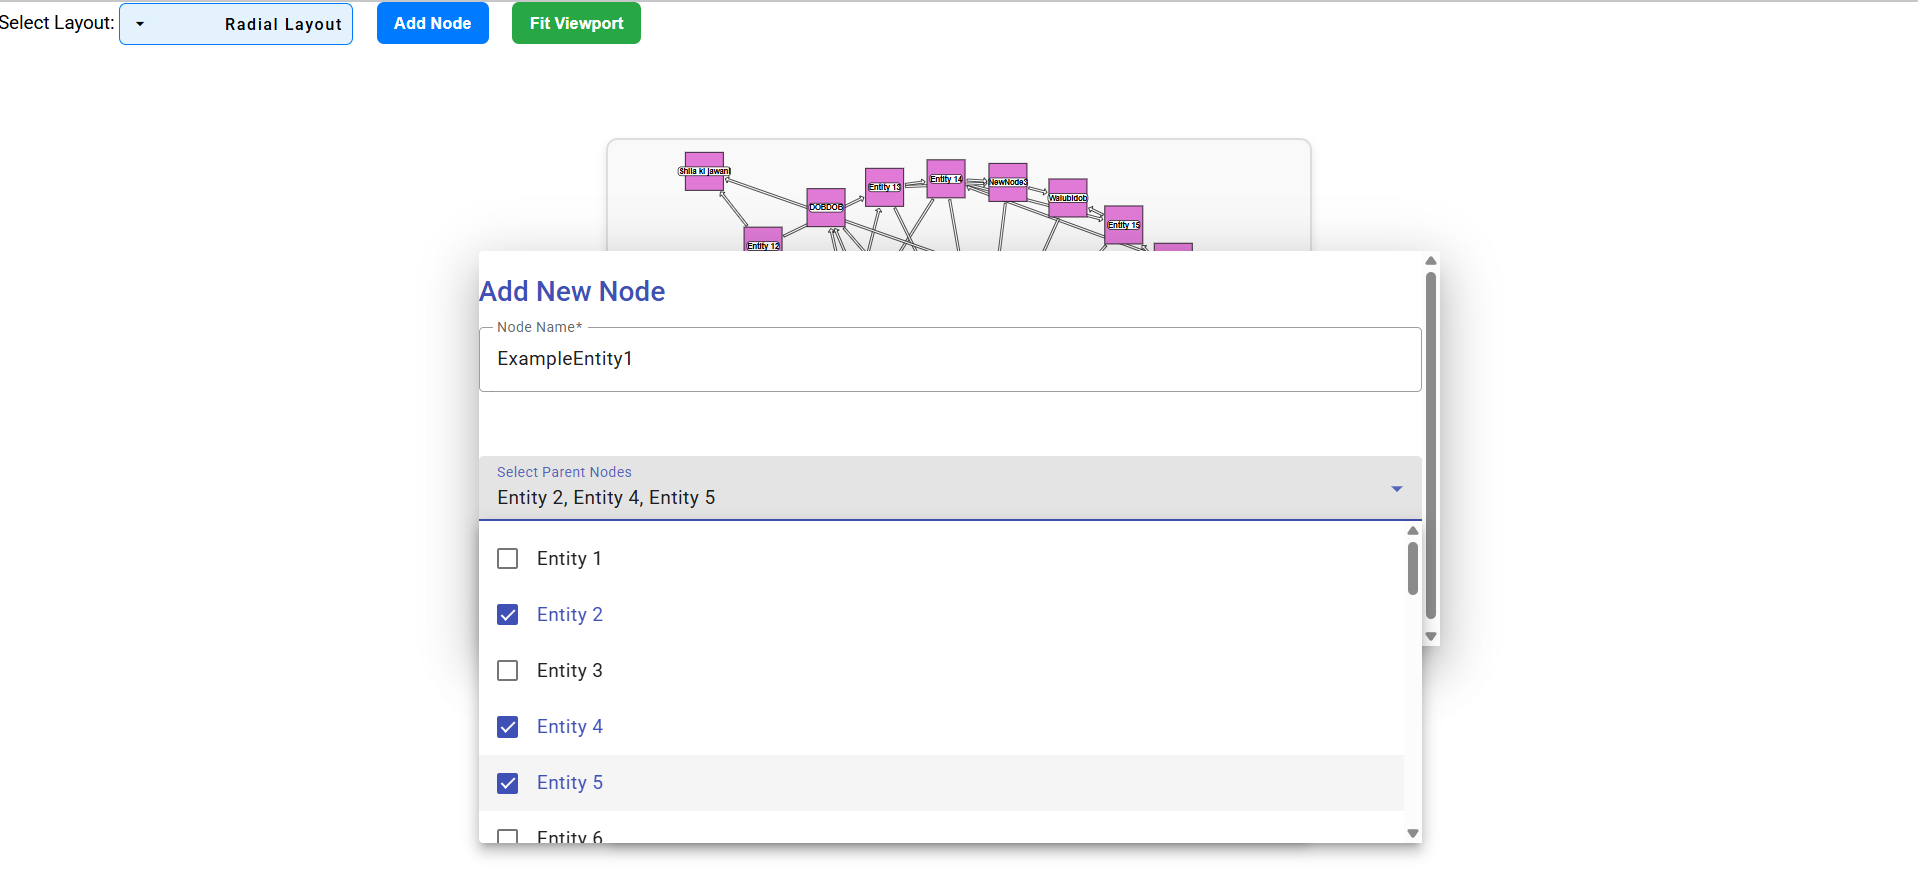
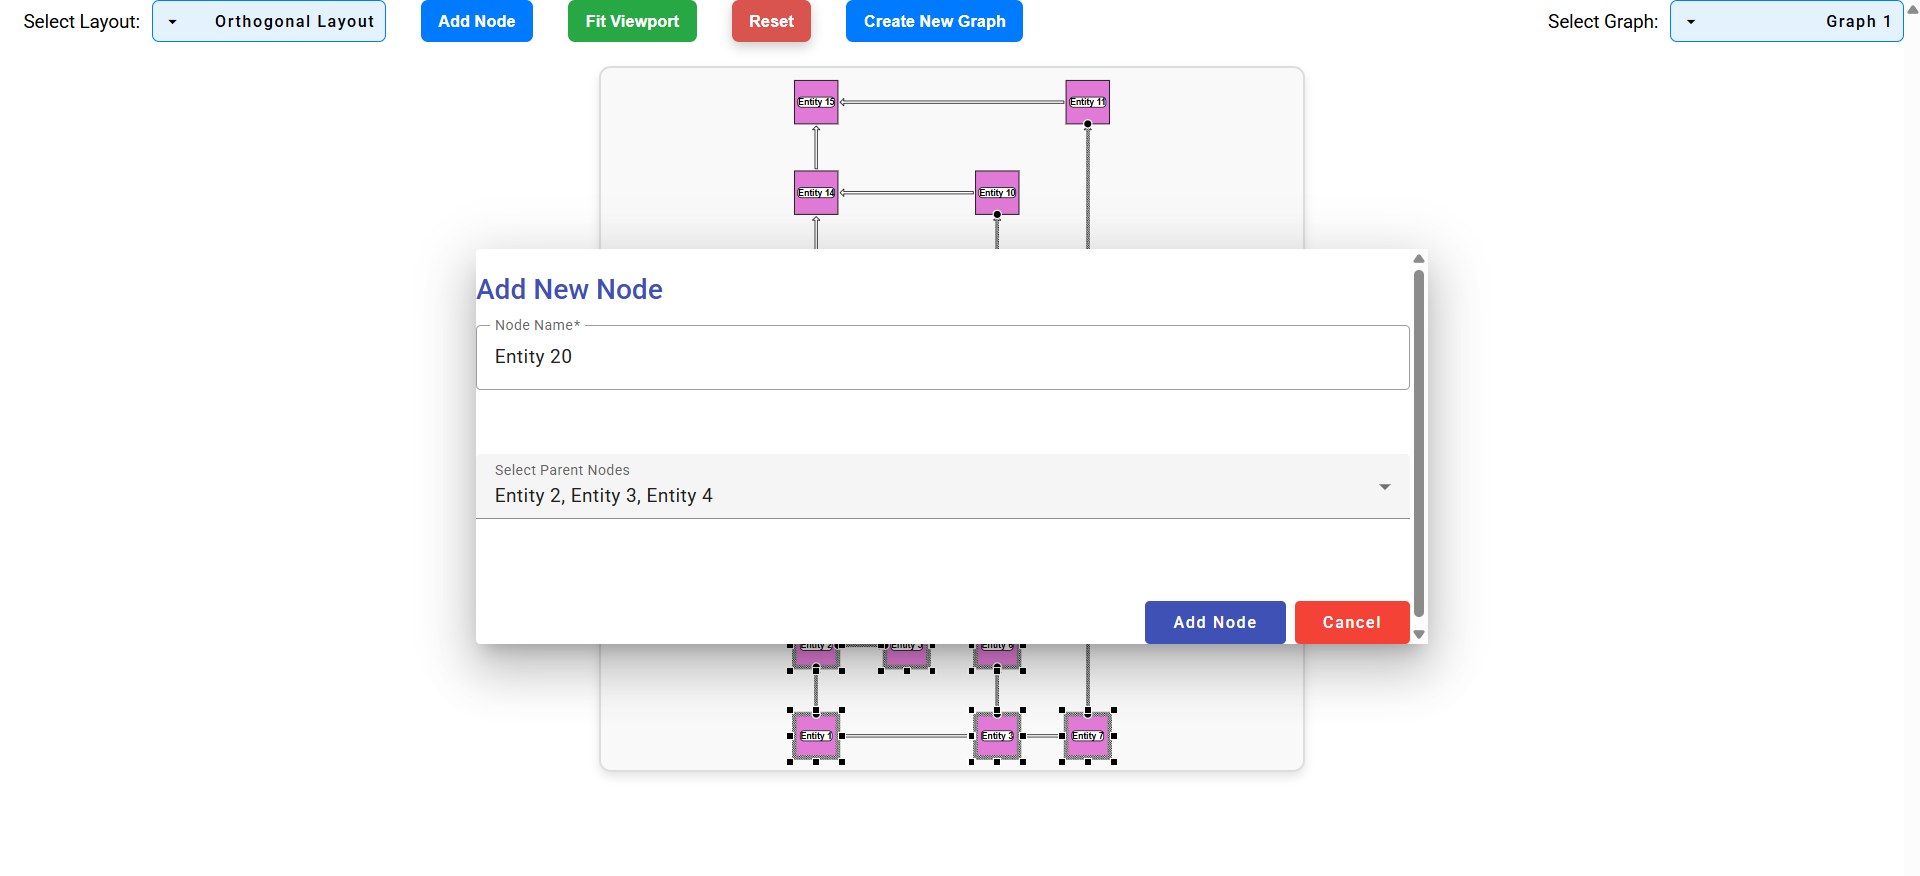
Screenshots and Readme updated

diff --git a/Readme.md b/Readme.md
@@ -2,11 +2,15 @@
 
 **Features**
 
+**Full View**
+
+Displays the total visualization.
+![All Layouts](Screenshots/FullView.png)
+
 **All Layouts**
 
 Displays all available graph layouts for visualization.
 ![All Layouts](Screenshots/AllLayouts.png)
-
 
 
 **Circular Layout**
@@ -25,7 +29,6 @@ Structures nodes hierarchically, useful for tree-like data visualization.
 
 Allows adding a node along with its parent nodes dynamically.
 ![Add Node With Parents](Screenshots/AddNodewithParents.png)
-![Add Node With Parents 2](Screenshots/AddNodewithParents2.png)
 
 
 **Delete Node**
@@ -33,6 +36,20 @@ Allows adding a node along with its parent nodes dynamically.
 Removes selected nodes from the graph.
 ![Delete Node](Screenshots/DeleteNodes.png)
 
+**Reset Graph**
+
+Resets the graph to the backup version.
+![Delete Node](Screenshots/ResetGraph.png)
+
+**Create New Graph**
+
+Creates a new graph and navigates to it.
+![Delete Node](Screenshots/CreateNewGraph.png)
+
+**Select Graph**
+
+Dropdown menu to select the graph.
+![Delete Node](Screenshots/SelectGraph.png)
 
 ****How to Run****
 
